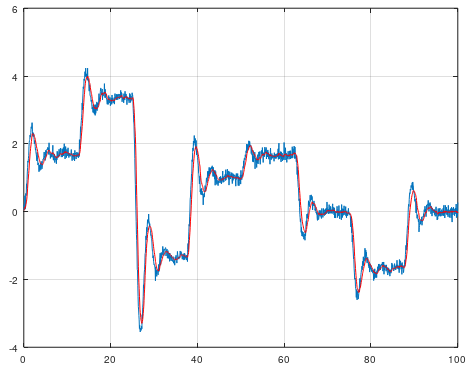
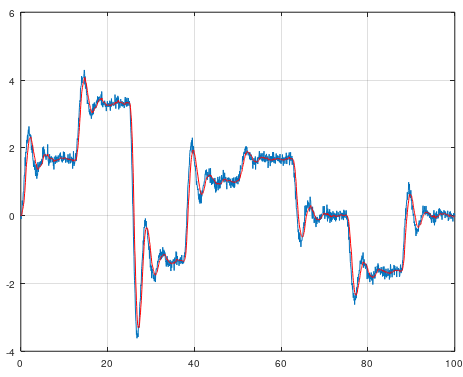
Update Particle Filter

Changed region(s): [[0.0, 0.0, 0.9978, 0.9784], [0.7257, 0.6226, 0.7559, 0.6523], [0.3931, 0.1779, 0.4233, 0.2075]]

diff --git a/examples/pfExample2.m b/examples/pfExample2.m
@@ -13,6 +13,7 @@ p = 14;                            % Length of the horizon (Change this)
 yf = zeros(m, n);                  % Filtered outputs
 horizon = zeros(m, p);             % Horizon matrix
 xhatp = zeros(m, 1);               % Past estimated state
+xhatp(1) = y(1);                   % First estimation is a real measurement
 k = 1;                             % Horizon counting (will be counted to p. Do not change this)
 noise = rand(m, p);                % Random noise, not normal distributed
 

diff --git a/examples/pfExample1.m b/examples/pfExample1.m
@@ -27,6 +27,7 @@ p = 4;                            % Length of the horizon (Change this)
 yf = zeros(m, n);                  % Filtered outputs
 horizon = zeros(m, p);             % Horizon matrix
 xhatp = zeros(m, 1);               % Past estimated state
+xhatp(1) = y(1);                   % First estimation is a real measurement
 k = 1;                             % Horizon counting (will be counted to p. Do not change this)
 noise = rand(m, p);                % Random noise, not normal distributed
 

diff --git a/examples/ocidExample.m b/examples/ocidExample.m
@@ -32,7 +32,7 @@ yf = mc.lsim(feedbacksys, r, t);
 close
 
 %% Add noise
-v = 2*randn(1, 1000);
+v = randn(1, 1000);
 for i = 1:length(yf)
   noiseSigma = 0.10*yf(:, i);
   noise = noiseSigma*v(i); % v = noise, 1000 samples -1 to 1

diff --git a/README.md b/README.md
@@ -1545,6 +1545,7 @@ p = 4;                            % Length of the horizon (Change this)
 yf = zeros(m, n);                  % Filtered outputs
 horizon = zeros(m, p);             % Horizon matrix
 xhatp = zeros(m, 1);               % Past estimated state
+xhatp(1) = y(1);                   % First estimation is a real measurement
 k = 1;                             % Horizon counting (will be counted to p. Do not change this)
 noise = rand(m, p);                % Random noise, not normal distributed
 
@@ -1580,6 +1581,7 @@ p = 14;                            % Length of the horizon (Change this)
 yf = zeros(m, n);                  % Filtered outputs
 horizon = zeros(m, p);             % Horizon matrix
 xhatp = zeros(m, 1);               % Past estimated state
+xhatp(1) = y(1);                   % First estimation is a real measurement
 k = 1;                             % Horizon counting (will be counted to p. Do not change this)
 noise = rand(m, p);                % Random noise, not normal distributed
 
